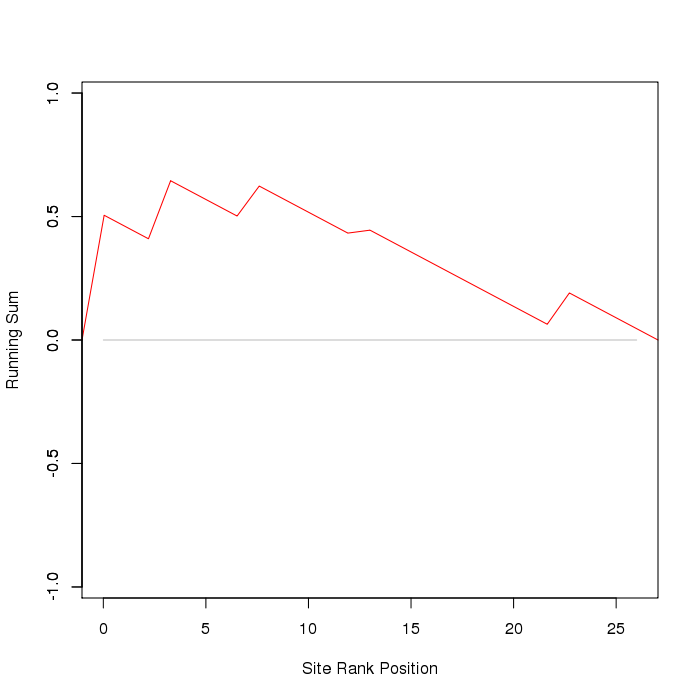
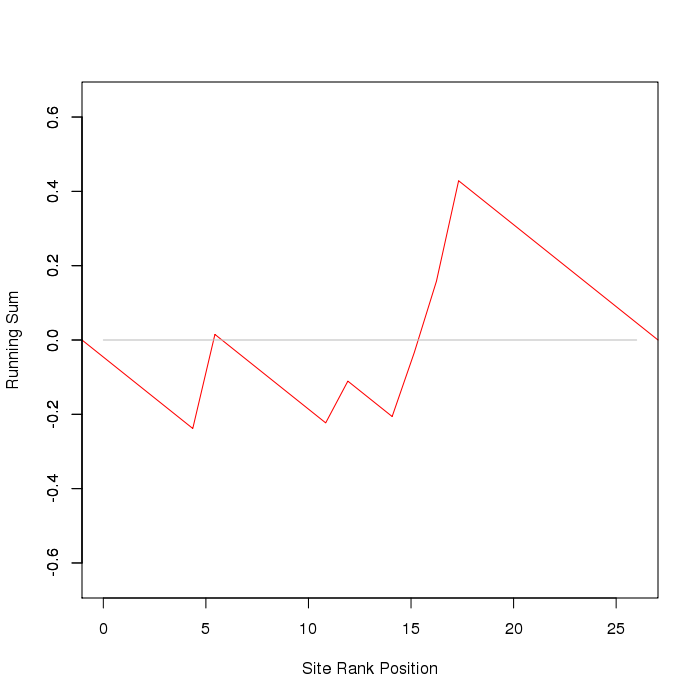
Figure updated

diff --git a/README.md b/README.md
@@ -50,7 +50,7 @@ regulons
 
 ```
 ## $kinaseA
-## [1] "M" "V" "U" "X" "S"
+## [1] "K" "X" "V" "E" "G"
 ```
 
 ```r
@@ -61,16 +61,16 @@ sites
 ```
 
 ```
-##           X           Z           A           V           O           H 
-##  1.65893111  0.95009321  0.78208600  0.77177370  0.72384673  0.61570291 
-##           D           M           Y           J           F           R 
-##  0.43395361  0.39844077  0.37872158  0.17841874  0.15080595  0.07230215 
-##           U           E           W           L           Q           C 
-## -0.03903746 -0.04094557 -0.05629761 -0.08365891 -0.15640349 -0.22658056 
-##           T           G           I           S           P           N 
-## -0.24810027 -0.29495063 -0.38296909 -0.41612990 -0.43166183 -0.49439111 
-##           B           K 
-## -1.16878279 -1.90545807
+##           A           M           W           L           F           E 
+##  1.57567135  1.41826527  1.28235233  1.13062265  1.12653712  0.60828319 
+##           Q           H           T           B           C           G 
+##  0.51406067  0.50926611  0.40915457  0.27983865  0.27174442  0.26992400 
+##           J           O           K           X           V           Y 
+## -0.09269101 -0.23785301 -0.41414165 -0.46114960 -0.64923876 -0.68147845 
+##           P           N           D           S           I           U 
+## -0.91388075 -0.94607195 -0.97804995 -1.11544097 -1.12154778 -1.26024195 
+##           R           Z 
+## -1.26387231 -1.43513027
 ```
 
 The function `ksea` will run the enrichment analysis for the provided quantifications and known kinase targets.
@@ -89,11 +89,11 @@ ksea_result
 ```
 ## $ES
 ##         V 
-## 0.6448573 
+## 0.4285714 
 ## 
 ## $p.value
 ##     V 
-## 0.154
+## 0.245
 ```
 
 The function `ksea_batchKinases` calculates the KSEA p-value for a list of kinases. To improve the performance of the function, it uses as many cores as possible using the `parallell` package.
@@ -107,13 +107,13 @@ regulons
 
 ```
 ## $kinaseA
-## [1] "M" "V" "U" "X" "S"
+## [1] "K" "X" "V" "E" "G"
 ## 
 ## $kinaseB
-## [1] "X" "T" "H"
+## [1] "N" "G" "A"
 ## 
 ## $kinaseC
-## [1] "S" "P" "Z" "N" "F" "T" "O"
+## [1] "A" "U" "C" "M" "X" "I" "T"
 ```
 
 ```r
@@ -129,8 +129,8 @@ kinases_ksea
 ```
 
 ```
-## kinaseA.V kinaseB.H kinaseC.O 
-##     0.178     0.158     0.471
+## kinaseA.V kinaseB.A kinaseC.M 
+##     0.262     0.197     0.124
 ```
 
 ##### KSEA in parallel #####
